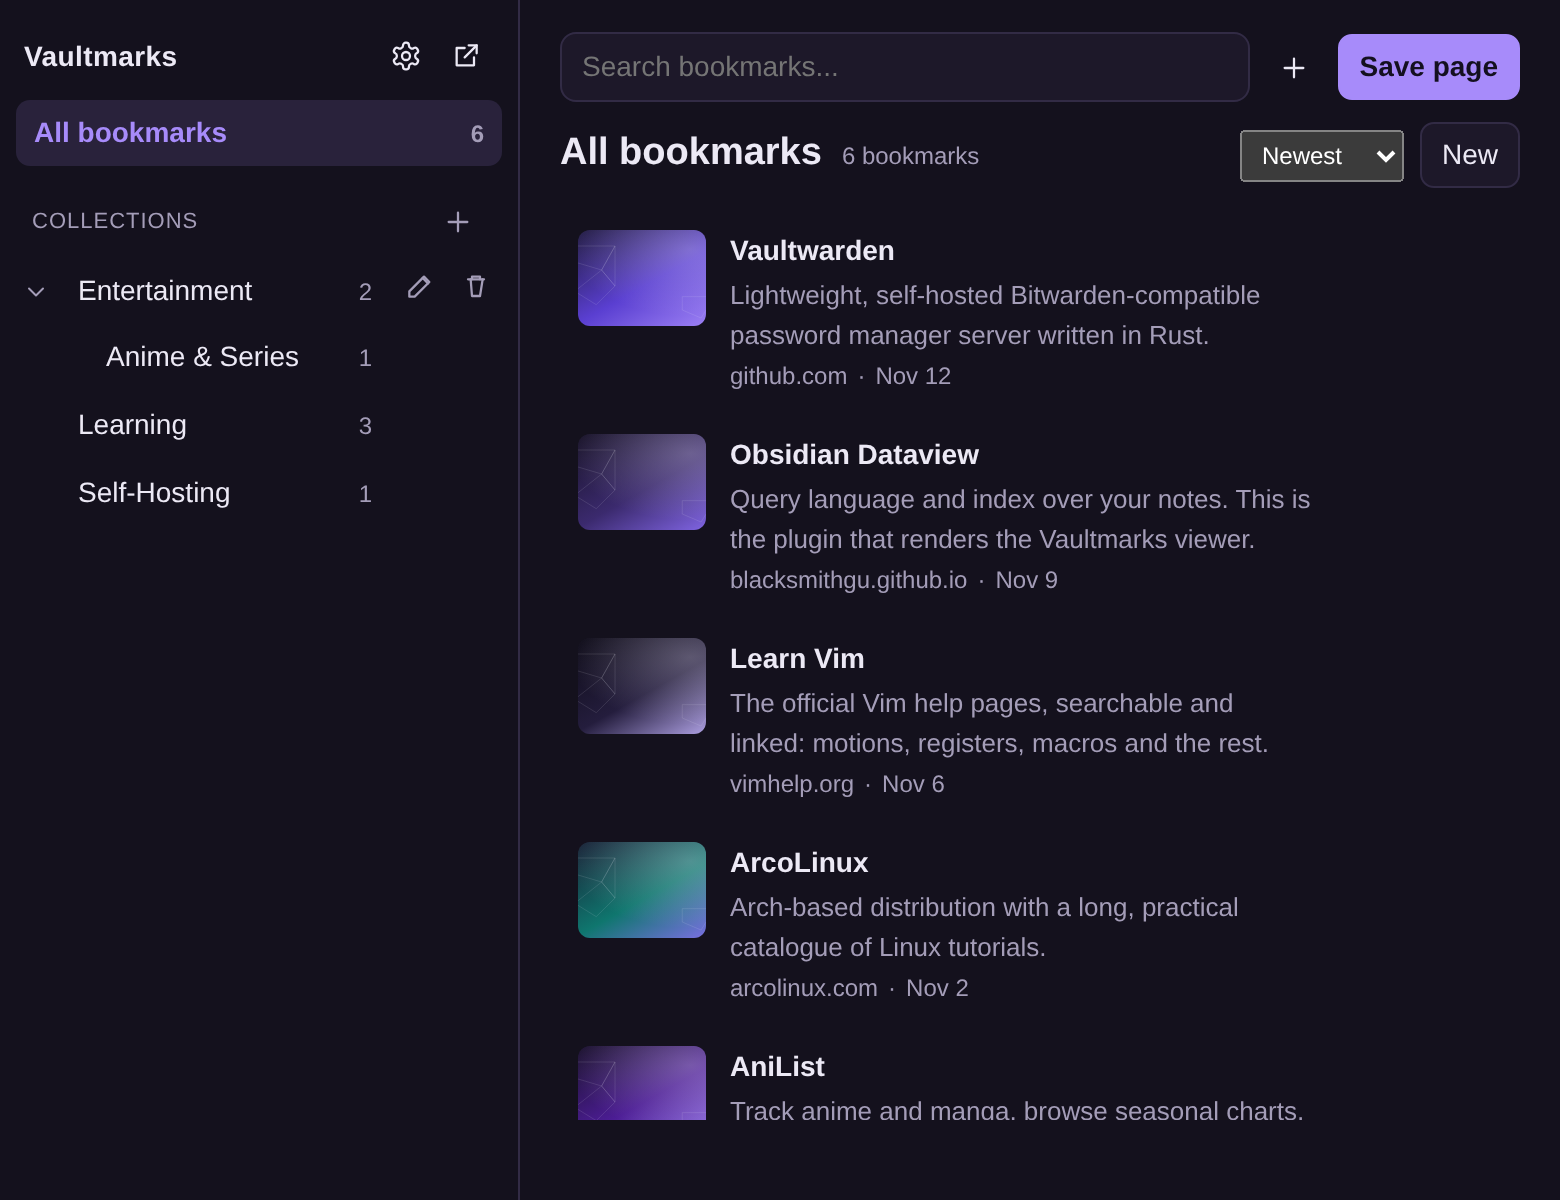
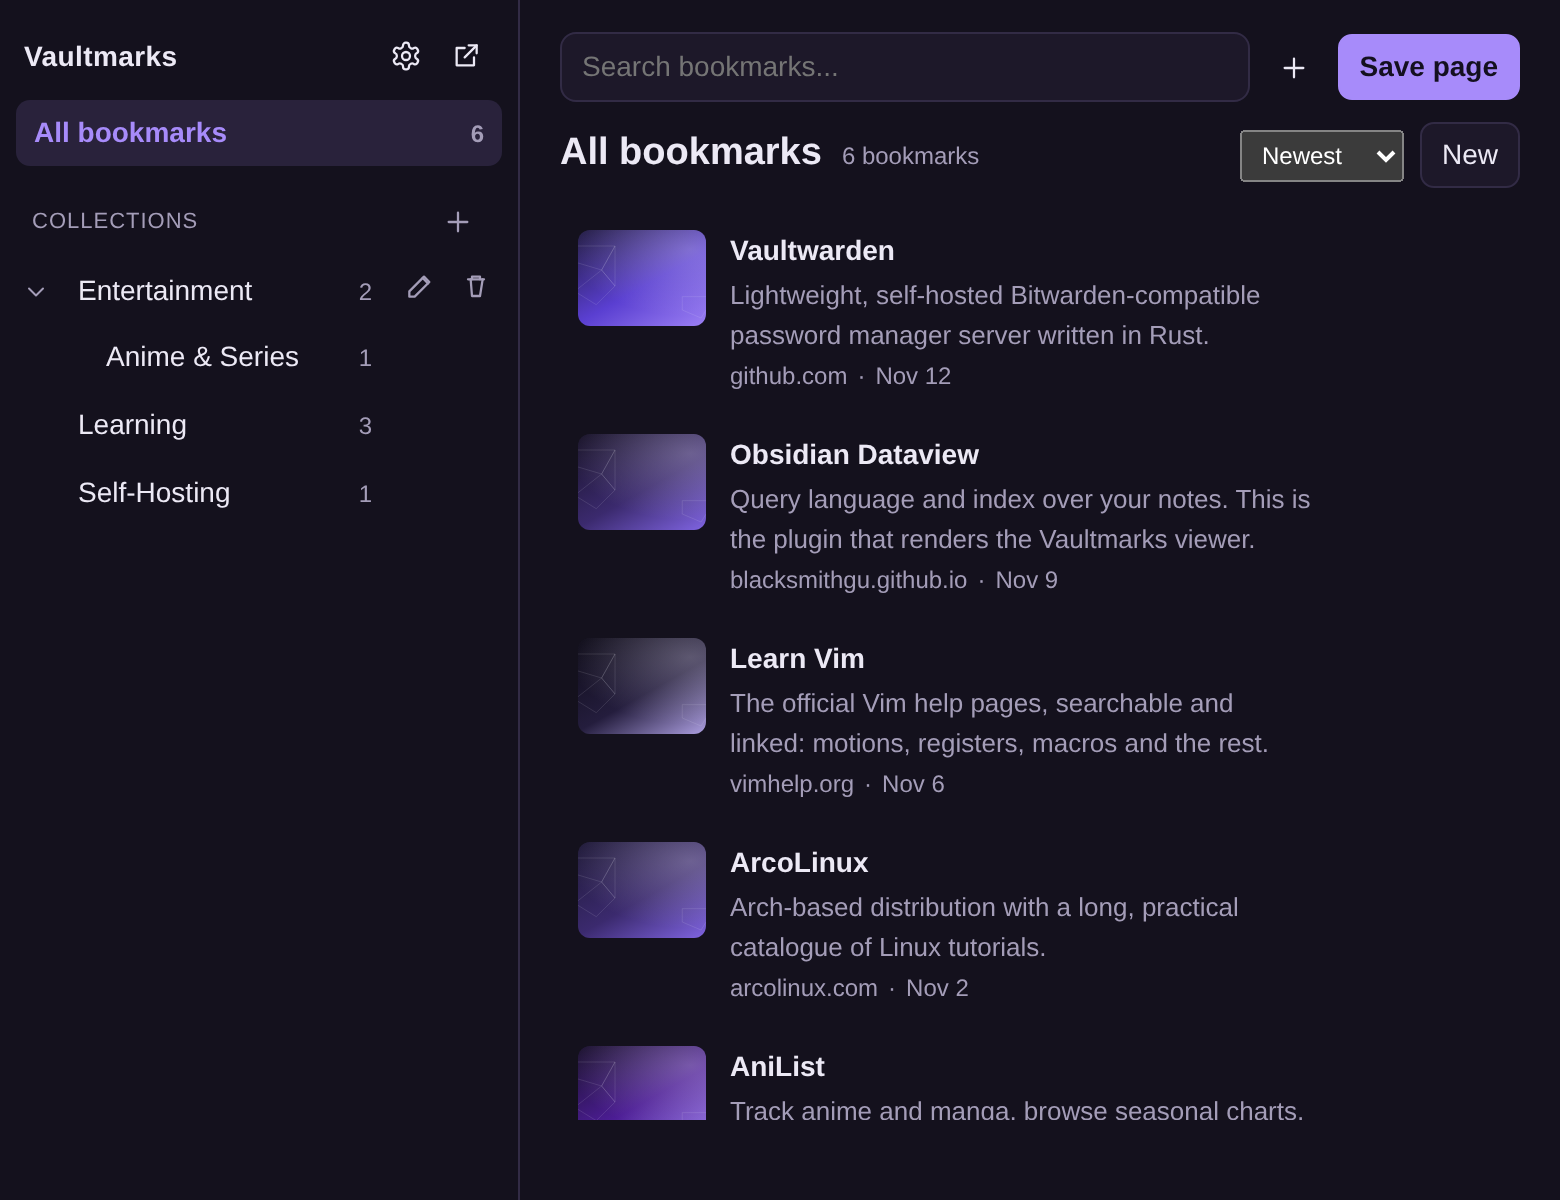
Raise contrast and fix the remaining review findings
- Viewer card border 0.6 alpha and solid focus rings; drop the dimmed button opacity.
- Extension focus and selected rows use the solid accent.
- Darker Obsidian badge, corrected palette rows and touch-target copy.
- Remove the teal cover from the sample fixtures and regenerate captures.
- Blend-aware contrast tests, portable live-note check, stricter assertions.

Changed region(s): [[0.3692, 0.6783, 0.4615, 0.8017]]

diff --git a/tests/brand.test.js b/tests/brand.test.js
@@ -1,6 +1,9 @@
 import { test } from 'node:test';
 import assert from 'node:assert/strict';
 import { readFile } from 'node:fs/promises';
+import { existsSync } from 'node:fs';
+import { homedir } from 'node:os';
+import { join } from 'node:path';
 
 const read = (path) => readFile(new URL(`../${path}`, import.meta.url), 'utf8');
 const readBuffer = (path) => readFile(new URL(`../${path}`, import.meta.url));
@@ -35,6 +38,15 @@ function luminance(hex) {
 function contrast(a, b) {
   const [hi, lo] = [luminance(a), luminance(b)].sort((x, y) => y - x);
   return (hi + 0.05) / (lo + 0.05);
+}
+
+function blend(fg, alpha, bg) {
+  const channels = [1, 3, 5].map((i) => {
+    const front = parseInt(fg.slice(i, i + 2), 16);
+    const back = parseInt(bg.slice(i, i + 2), 16);
+    return Math.round(front * alpha + back * (1 - alpha)).toString(16).padStart(2, '0');
+  });
+  return `#${channels.join('')}`;
 }
 
 test('extension tokens use the brand palette', async () => {
@@ -93,7 +105,7 @@ test('viewer uses the brand palette and paints its own dark surface', async () =
   for (const literal of [
     'cardBg: "#161226"',
     'leftPanelBg: "#100c1e"',
-    'border: "rgba(167, 139, 250, 0.32)"',
+    'border: "rgba(167, 139, 250, 0.6)"',
     'title: "#c4b5fd"',
     'description: "#d7d3e3"',
     'url: "#a78bfa"',
@@ -104,31 +116,39 @@ test('viewer uses the brand palette and paints its own dark surface', async () =
   ]) {
     assert.ok(md.includes(literal), `missing ${literal}`);
   }
-  assert.ok(!md.includes('#5eead4'), 'teal text colour survived');
-  assert.ok(!md.includes('rgba(94, 234, 212'), 'teal alpha survived');
+  assert.ok(!md.toLowerCase().includes('#5eead4'), 'teal text colour survived');
+  assert.ok(!md.toLowerCase().includes('%235eead4'), 'encoded teal survived');
+  assert.ok(!md.toLowerCase().includes('rgba(94, 234, 212'), 'teal alpha survived');
   assert.ok(md.includes('%23a78bfa'), 'fallback icon is not violet');
   assert.ok(md.includes('background: #5a3fd1'), 'letter tile is not violet');
+  for (const match of md.matchAll(/base64,([A-Za-z0-9+/=]+)/g)) {
+    const svg = Buffer.from(match[1], 'base64').toString('utf8');
+    assert.doesNotMatch(svg, /#5eead4|94,\s*234,\s*212/i, 'encoded SVG still uses teal');
+  }
 });
 
-test('repo viewer matches the live note and keeps recent behaviour', async () => {
-  const [repo, live] = await Promise.all([
-    read('obsidian/vaultmarks.md'),
-    readFile(`${process.env.HOME}/Documents/notes/vaultmarks.md`, 'utf8'),
-  ]);
-  assert.equal(repo, live);
+const liveNote = process.env.VAULTMARKS_LIVE_NOTE
+  ?? join(homedir(), 'Documents/notes/vaultmarks.md');
+
+test('repo viewer keeps recent behaviour', async () => {
+  const repo = await read('obsidian/vaultmarks.md');
   for (const name of ['renderFaviconFallback', 'whenNearViewport', 'mdDestination']) {
     assert.ok(repo.includes(name), `missing ${name}`);
   }
 });
 
+test('repo viewer matches the live note when it is present', { skip: !existsSync(liveNote) }, async () => {
+  assert.equal(await read('obsidian/vaultmarks.md'), await readFile(liveNote, 'utf8'));
+});
+
 test('README screenshots exist at their declared sizes', async () => {
   assert.deepEqual(pngSize(await readBuffer('docs/brand/panel.png')), [1560, 1200]);
+  const social = await readBuffer('docs/brand/social-preview.png');
+  assert.ok(social.length < 1024 * 1024, `social preview is ${social.length} bytes`);
 });
 
 test('phone capture is a tall 390px-wide view', async () => {
-  const [width, height] = pngSize(await readBuffer('docs/brand/phone.png'));
-  assert.equal(width, 780);
-  assert.ok(height > 1200, `phone capture is ${width}x${height}`);
+  assert.deepEqual(pngSize(await readBuffer('docs/brand/phone.png')), [780, 2178]);
 });
 
 test('README leads with the brand assets and tagline', async () => {
@@ -170,4 +190,54 @@ test('the repository is licensed GPL-3.0 and says so', async () => {
   assert.equal(pkg.license, 'GPL-3.0-only');
   const readme = await read('README.md');
   assert.match(readme, /GNU General Public License/);
+});
+
+test('rendered text pairs and UI boundaries meet the contrast floor', () => {
+  const card = '#161226';
+  const panel = '#100c1e';
+  const page = '#14101f';
+
+  const textPairs = [
+    [blend('#a78bfa', 0.8, card), card],
+    [blend('#a78bfa', 0.8, panel), panel],
+    [blend('#d7d3e3', 0.6, page), page],
+    [blend('#d7d3e3', 0.9, card), card],
+    ['#c4b5fd', blend('#c4b5fd', 0.32, card)],
+  ];
+  for (const [fg, bg] of textPairs) {
+    assert.ok(contrast(fg, bg) >= 4.5, `${fg} on ${bg} is ${contrast(fg, bg).toFixed(2)}:1`);
+  }
+
+  const boundaries = [
+    [blend('#a78bfa', 0.6, card), card],
+    [blend('#a78bfa', 0.6, page), page],
+    ['#6d4ae0', '#ffffff'],
+    ['#a78bfa', '#14111d'],
+  ];
+  for (const [fg, bg] of boundaries) {
+    assert.ok(contrast(fg, bg) >= 3, `${fg} on ${bg} is ${contrast(fg, bg).toFixed(2)}:1`);
+  }
+});
+
+test('focus and selection indicators use the solid accent', async () => {
+  const css = await read('src/library/library.css');
+  assert.match(css, /#search:focus\s*\{[^}]*outline: 2px solid var\(--accent\)/);
+  assert.match(css, /\.row\.selected\s*\{[^}]*outline: 2px solid var\(--accent\)/);
+  assert.match(css, /\.dialog input:focus,[^}]*outline: 2px solid var\(--accent\)/);
+
+  const viewer = await read('obsidian/vaultmarks.md');
+  assert.match(viewer, /\.bv-viewer input:focus,[\s\S]*outline: 2px solid #a78bfa/);
+  assert.doesNotMatch(viewer, /outline: none/);
+});
+
+test('README badge and touch-target copy stay accurate', async () => {
+  const md = await read('README.md');
+  assert.ok(!md.includes('Obsidian-vault-a78bfa'), 'light violet badge fails contrast');
+  assert.ok(md.includes('Obsidian-vault-6d4ae0'));
+  assert.ok(md.includes('34–40px touch targets'));
+});
+
+test('sample captures use no teal cover', async () => {
+  const fixtures = await read('docs/brand/tools/fixtures.mjs');
+  assert.ok(!fixtures.toLowerCase().includes('#0f766e'));
 });

diff --git a/src/library/library.css b/src/library/library.css
@@ -56,6 +56,11 @@ button:hover:not(:disabled) {
   border-color: var(--accent);
 }
 
+button:focus-visible {
+  outline: 2px solid var(--accent);
+  outline-offset: 1px;
+}
+
 button.primary {
   background: var(--accent);
   border-color: var(--accent);
@@ -99,7 +104,7 @@ button.danger:hover:not(:disabled) {
 }
 
 #search:focus {
-  outline: 2px solid color-mix(in srgb, var(--accent) 45%, transparent);
+  outline: 2px solid var(--accent);
   border-color: var(--accent);
 }
 
@@ -397,7 +402,7 @@ button.danger:hover:not(:disabled) {
 
 .row.selected {
   background: var(--hover);
-  outline: 2px solid color-mix(in srgb, var(--accent) 55%, transparent);
+  outline: 2px solid var(--accent);
   outline-offset: -2px;
 }
 
@@ -643,7 +648,7 @@ body.scanning .wordmark::after {
 .dialog input:focus,
 .dialog textarea:focus,
 .dialog select:focus {
-  outline: 2px solid color-mix(in srgb, var(--accent) 45%, transparent);
+  outline: 2px solid var(--accent);
   border-color: var(--accent);
 }
 

diff --git a/obsidian/vaultmarks.md b/obsidian/vaultmarks.md
@@ -116,6 +116,14 @@ const VIEWER_CSS = `
   .bv-viewer .bv-card-desc { font-size: 0.76em !important; }
   .bv-viewer .bv-action-btn { width: 34px !important; height: 34px !important; }
 }
+
+.bv-viewer input:focus,
+.bv-viewer select:focus,
+.bv-viewer button:focus-visible,
+.bv-viewer summary:focus-visible {
+  outline: 2px solid #a78bfa !important;
+  outline-offset: 2px;
+}
 `;
 
 function injectViewerStyles() {
@@ -163,7 +171,7 @@ function getBodyCover(page) {
 const COLORS = {
     cardBg: "#161226",
     leftPanelBg: "#100c1e",
-    border: "rgba(167, 139, 250, 0.32)",
+    border: "rgba(167, 139, 250, 0.6)",
     title: "#c4b5fd",
     description: "#d7d3e3",
     url: "#a78bfa",
@@ -181,12 +189,12 @@ dv.container.style.borderRadius = "12px";
 dv.container.style.boxSizing = "border-box";
 
 // Shared style for the small edit/delete buttons on each card
-const ACTION_BTN_STYLE = `flex-shrink: 0; background: transparent; border: 1px solid ${COLORS.border}; border-radius: 6px; width: 26px; height: 26px; display: flex; align-items: center; justify-content: center; cursor: pointer; color: ${COLORS.title}; opacity: 0.85; padding: 0; touch-action: manipulation;`;
+const ACTION_BTN_STYLE = `flex-shrink: 0; background: transparent; border: 1px solid ${COLORS.border}; border-radius: 6px; width: 26px; height: 26px; display: flex; align-items: center; justify-content: center; cursor: pointer; color: ${COLORS.title}; padding: 0; touch-action: manipulation;`;
 const DELETE_ARMED_STYLE = `${ACTION_BTN_STYLE} border-color: #f87171; color: #f87171; background: rgba(248, 113, 113, 0.12);`;
 const DELETE_HOVER_STYLE = `${ACTION_BTN_STYLE} border-color: rgba(248, 113, 113, 0.7); color: #f87171; opacity: 1;`;
 
 // Styles for the "+" (add bookmark) button and its inline panel
-const ADD_BTN_STYLE = `flex-shrink: 0; display: flex; align-items: center; justify-content: center; background: transparent; border: 1px solid ${COLORS.border}; border-radius: 8px; width: 36px; height: 36px; box-sizing: border-box; cursor: pointer; color: ${COLORS.title}; opacity: 0.85; padding: 0; touch-action: manipulation;`;
+const ADD_BTN_STYLE = `flex-shrink: 0; display: flex; align-items: center; justify-content: center; background: transparent; border: 1px solid ${COLORS.border}; border-radius: 8px; width: 36px; height: 36px; box-sizing: border-box; cursor: pointer; color: ${COLORS.title}; padding: 0; touch-action: manipulation;`;
 const ADD_BTN_ACTIVE_STYLE = `${ADD_BTN_STYLE} opacity: 1; background: rgba(167, 139, 250, 0.12);`;
 const CREATOR_STYLE = `display: flex; flex-direction: column; gap: 8px; padding: 12px; margin: 4px 0 10px; border: 1px solid ${COLORS.border}; border-radius: 10px; background: ${COLORS.cardBg};`;
 const CREATOR_HIDDEN_STYLE = `display: none;`;
@@ -857,7 +865,7 @@ const searchInput = searchBox.createEl("input", {
     attr: {
         type: "text",
         placeholder: "Search bookmarks (title, description, URL, tags)...",
-        style: `flex: 1; width: 100%; height: 36px; box-sizing: border-box; padding: 0 14px 0 38px; border-radius: 8px; border: 1px solid ${COLORS.border}; background: ${COLORS.cardBg}; color: ${COLORS.description}; font-size: 0.95em; outline: none;`
+        style: `flex: 1; width: 100%; height: 36px; box-sizing: border-box; padding: 0 14px 0 38px; border-radius: 8px; border: 1px solid ${COLORS.border}; background: ${COLORS.cardBg}; color: ${COLORS.description}; font-size: 0.95em;`
     }
 });
 
@@ -890,14 +898,14 @@ const newUrlInput = creatorRow.createEl("input", {
         type: "text",
         placeholder: "Paste a link and press Enter",
         title: "Title, description, cover and favicon are fetched automatically",
-        style: `flex: 1 1 240px; min-width: 200px; height: 36px; box-sizing: border-box; padding: 0 12px; border-radius: 8px; border: 1px solid ${COLORS.border}; background: ${COLORS.leftPanelBg}; color: ${COLORS.description}; font-size: 0.92em; outline: none;`
+        style: `flex: 1 1 240px; min-width: 200px; height: 36px; box-sizing: border-box; padding: 0 12px; border-radius: 8px; border: 1px solid ${COLORS.border}; background: ${COLORS.leftPanelBg}; color: ${COLORS.description}; font-size: 0.92em;`
     }
 });
 
 const folderSelect = creatorRow.createEl("select", {
     cls: "bv-add-select",
     attr: {
[2 lines of base64/hex data omitted]
         title: "Collection for the new bookmark"
     }
 });
@@ -925,7 +933,7 @@ const createBtn = creatorRow.createEl("button", {
 const cancelBtn = creatorRow.createEl("button", {
     cls: "bv-round-btn",
     attr: {
-        style: `flex-shrink: 0; display: flex; align-items: center; justify-content: center; height: 36px; width: 36px; box-sizing: border-box; background: transparent; border: 1px solid ${COLORS.border}; border-radius: 8px; cursor: pointer; color: ${COLORS.title}; opacity: 0.85; padding: 0; touch-action: manipulation;`,
+        style: `flex-shrink: 0; display: flex; align-items: center; justify-content: center; height: 36px; width: 36px; box-sizing: border-box; background: transparent; border: 1px solid ${COLORS.border}; border-radius: 8px; cursor: pointer; color: ${COLORS.title}; padding: 0; touch-action: manipulation;`,
         title: "Close",
         "aria-label": "Close the add panel"
     }
@@ -943,7 +951,7 @@ const newTitleInput = manualRow.createEl("input", {
     attr: {
         type: "text",
         placeholder: "Title",
-        style: `height: 36px; box-sizing: border-box; padding: 0 12px; border-radius: 8px; border: 1px solid ${COLORS.border}; background: ${COLORS.leftPanelBg}; color: ${COLORS.description}; font-size: 0.92em; outline: none;`
+        style: `height: 36px; box-sizing: border-box; padding: 0 12px; border-radius: 8px; border: 1px solid ${COLORS.border}; background: ${COLORS.leftPanelBg}; color: ${COLORS.description}; font-size: 0.92em;`
     }
 });
 
@@ -952,7 +960,7 @@ const newDescInput = manualRow.createEl("input", {
     attr: {
         type: "text",
         placeholder: "Description (optional)",
-        style: `height: 36px; box-sizing: border-box; padding: 0 12px; border-radius: 8px; border: 1px solid ${COLORS.border}; background: ${COLORS.leftPanelBg}; color: ${COLORS.description}; font-size: 0.92em; outline: none;`
+        style: `height: 36px; box-sizing: border-box; padding: 0 12px; border-radius: 8px; border: 1px solid ${COLORS.border}; background: ${COLORS.leftPanelBg}; color: ${COLORS.description}; font-size: 0.92em;`
     }
 });
 

diff --git a/docs/brand/README.md b/docs/brand/README.md
@@ -30,28 +30,34 @@ on the right. It already ships in two cuts; do not redraw either one.
 | Ink 950 | `#0c0a14` | Deepest background, banner base |
 | Ink 900 | `#14101f` | Brand dark background, viewer surface |
 | Ink 850 | `#1b1730` | Banner gradient, raised dark surfaces |
-| Ink 800 | `#241d3d` | Hover, borders on dark |
+| Ink 800 | `#241d3d` | Mark artwork and illustration |
 | UI dark | `#14111d` | Extension `--bg` in dark mode |
 | Viewer card | `#161226` | Viewer `cardBg` |
 | Viewer panel | `#100c1e` | Viewer `leftPanelBg` |
 | Violet 300 | `#c4b5fd` | Titles and primary text on dark |
 | Violet 400 | `#a78bfa` | Accent on dark, links, UI borders |
-| Violet 500 | `#8b6ef5` | Gradient midpoint |
+| Violet 500 | `#8b6ef5` | Sample-cover midpoint |
 | Violet 600 | `#6d4ae0` | Primary buttons on light, focus |
 | Violet 700 | `#5a3fd1` | Gradient end, monogram tiles |
 | Mark stroke | `#a794ff` / `#8f78e6` | Facet strokes in `icons/icon.svg` |
 | Mark gradient | `#9b82f5` → `#5a3fd1` | Bookmark body in the mark |
-| Paper | `#f7f5fb` | Light raised surfaces |
+| Paper | `#f7f5fb` | Illustration background, not used by the UI |
 | Success teal | `#2dd4bf` | Success and positive states only |
 | Danger | `#c0392b` light / `#f07171` dark | Destructive actions |
+| UI light surface | `#f8f6fc` | Extension `--surface` in light mode |
+| UI light hover | `#f1edf9` | Extension `--hover` in light mode |
+| UI dark surface | `#1d1829` | Extension `--surface` in dark mode |
+| UI dark hover | `#262033` | Extension `--hover` in dark mode |
+| UI dark line | `#322b45` | Neutral dividers in dark mode |
 
 Rules:
 
 - Violet is for identity and interaction. Teal is not a second brand colour;
   it is reserved for success states.
 - Body copy stays neutral: `#d7d3e3` on dark, `#1b1726` on light.
-- Every text/background pair reaches 4.5:1. UI borders and focus rings reach
-  3:1.
+- Every text/background pair reaches 4.5:1.
+- Focus rings, selected rows and the viewer card boundary reach 3:1. Neutral
+  dividers and input outlines are decorative and use the palette neutrals.
 - The per-note monogram colours stored in the vault stay as they are. Only the
   runtime letter fallback uses Violet 700.
 
@@ -87,7 +93,7 @@ file.
 | `social-preview.svg` | 1280×640 | Source for the social preview |
 | `social-preview.png` | 1280×640 | GitHub social preview upload |
 | `panel.png` | 1560×1200 (780×600 at 2×) | Real extension panel, dark scheme |
-| `phone.png` | 780×2178 (390px at 2×) | Viewer at phone width |
+| `phone.png` | 780×2178 (390px at 2×) | Viewer at phone width; folders are expanded for the capture |
 
 The PNGs are committed so the README does not depend on a build. The SVGs are
 the editable sources.

diff --git a/README.md b/README.md
@@ -6,7 +6,7 @@
 
 ![Chromium MV3](https://img.shields.io/badge/Chromium-MV3-6d4ae0?style=flat-square)
 ![No server](https://img.shields.io/badge/server-none-14101f?style=flat-square)
-![Obsidian](https://img.shields.io/badge/Obsidian-vault-a78bfa?style=flat-square)
+![Obsidian](https://img.shields.io/badge/Obsidian-vault-6d4ae0?style=flat-square)
 ![Markdown](https://img.shields.io/badge/storage-Markdown-c4b5fd?style=flat-square)
 
 Vaultmarks saves the page you are on as a Markdown note in your Obsidian vault,
@@ -240,7 +240,7 @@ What it does:
   (offline or blocked) it switches to a small Title/Description form so the
   bookmark can still be saved.
 - **Phone layout** — controls, cards and the folder tree adapt to phone-width
-  panes: 40px touch targets, 16px inputs so iOS does not zoom on focus, and
+  panes: 34–40px touch targets, 16px inputs so iOS does not zoom on focus, and
   a single-line ellipsised URL.
 
 The page expects the notes in a top-level `Bookmarks` folder, exactly where
